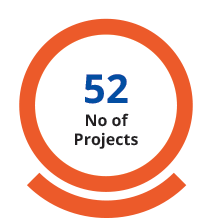
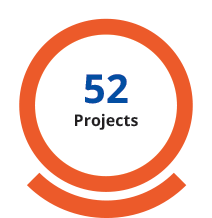
changes

Changed region(s): [[0.3396, 0.5229, 0.6509, 0.6881]]

diff --git a/index.php b/index.php
@@ -31,7 +31,7 @@
                         <a class="nav-link float-right" href="#aboutus">About-Us</a>
                     </li>
                     <li class="nav-item">
-                        <a class="nav-link float-right" href="#supported">Work</a>
+                        <a class="nav-link float-right" href="#supported">Project</a>
                     </li>
                     <li class="nav-item">
                         <a class="nav-link float-right" href="#initiative">Initiatives</a>
@@ -107,8 +107,8 @@
         <div class="container">
             <div class="row">
                 <div class="col-12 areatitle">
-                    <h1 class="sec-title">Our Areas of Work</h1>
-                    <p class="p-size">By focusing our efforts on these five areas we aim to driving a positive social change.</p>
+                    <h1 class="sec-title">Our Project</h1>
+                    <p class="p-size">By focusing our efforts on these five areas we aim to drive a positive social change.</p>
                 </div>
             </div>
             <div class="row justify-content-center cm">

diff --git a/send.php b/send.php
@@ -40,7 +40,7 @@ if($otherGuid=="on"){
 $agree = "<input type='checkbox' checked disabled> ";*/
 
 
-$to = "mithilesh.joshi@ia.com";
+$to = "mithilesh.j@infoanalytica.com";
 
 
 if($name!=""){
